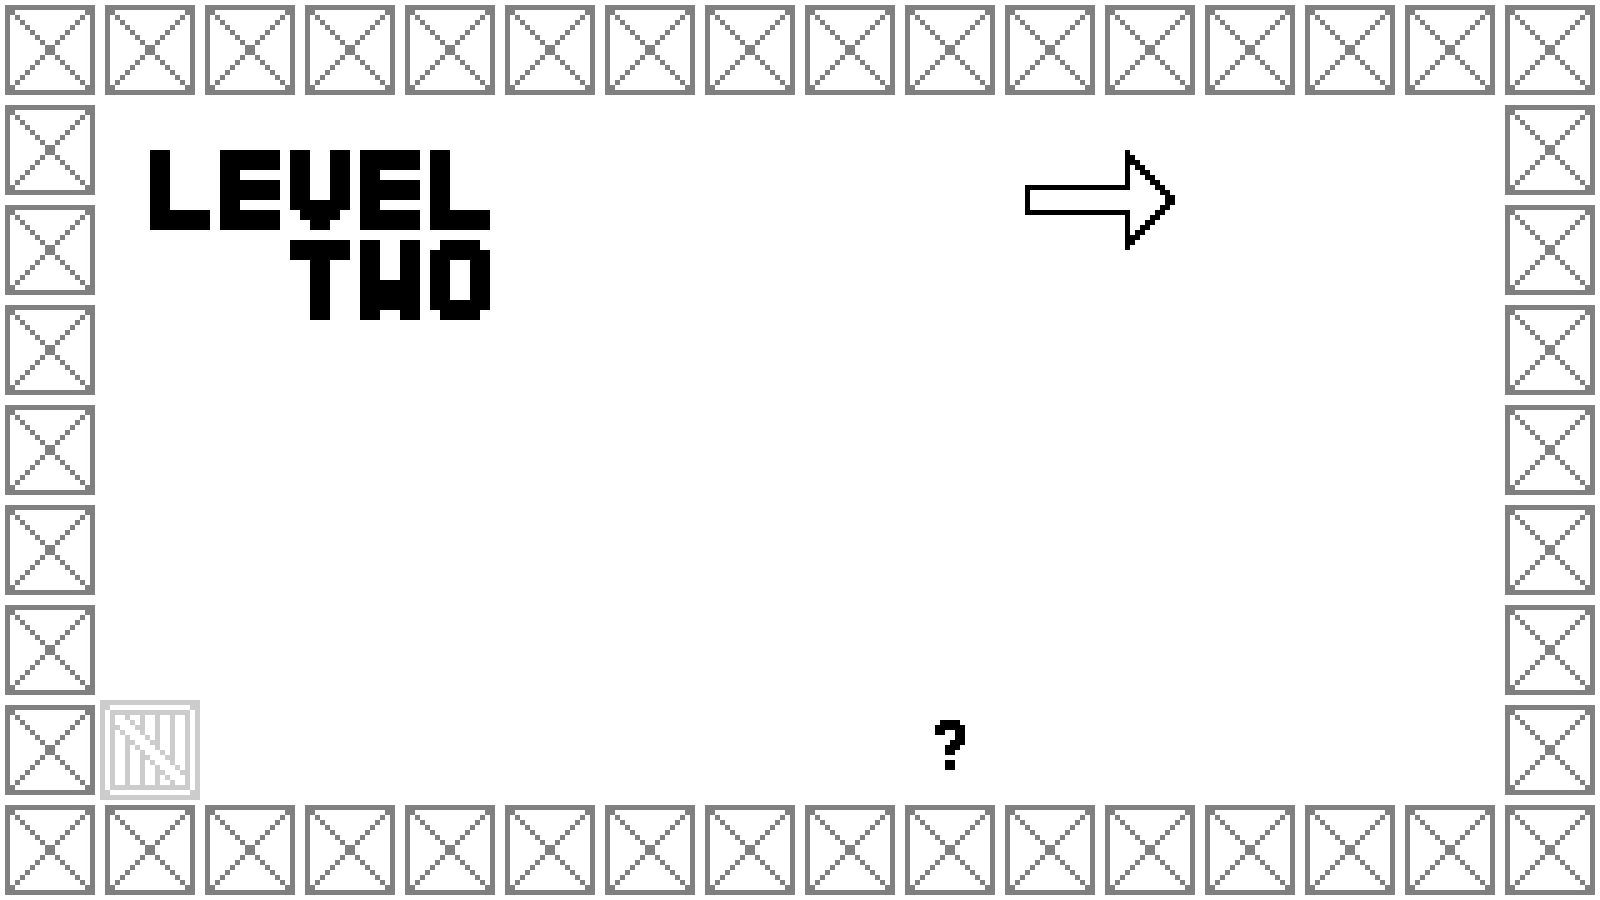
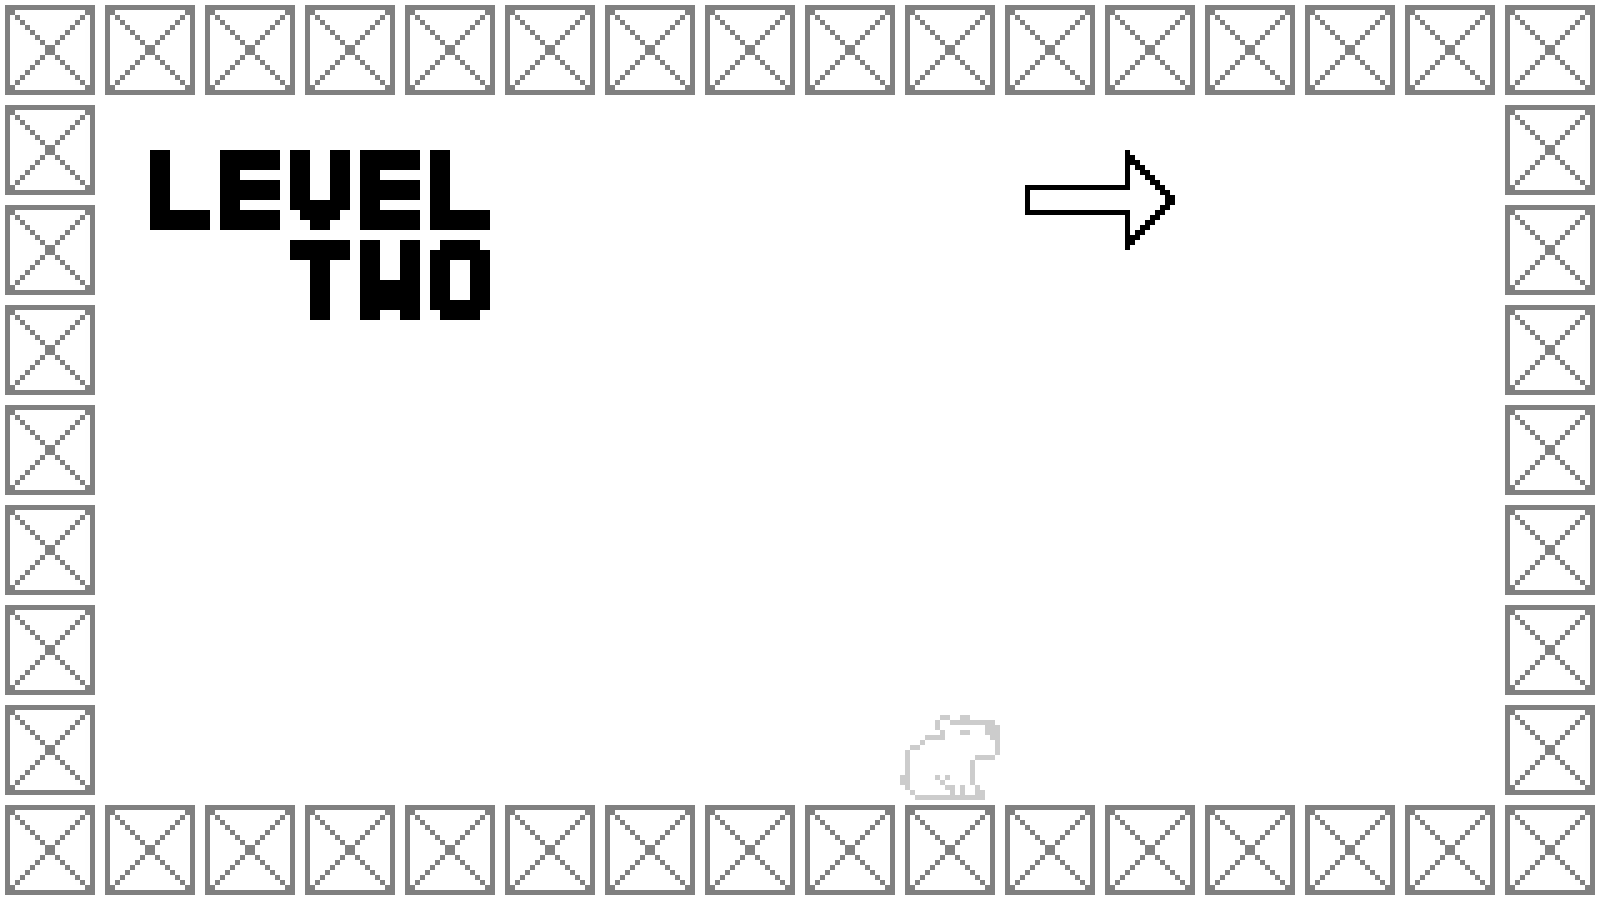
clarified level 3

Changed region(s): [[0.5625, 0.7778, 0.625, 0.9022], [0.0625, 0.7778, 0.125, 0.9022]]

diff --git a/src/levels/levels.min.js b/src/levels/levels.min.js
@@ -1,23 +1,61 @@
 const levels = [
-new Level(document.getElementById("level-1-background"), function(level, player, berry){
-}),
-new Level(document.getElementById("level-2-background"), function(level, player, berry){
+/*
+@name "Where Am I?"
+@background "level-1-background"
+
+*/
+new Level("Where Am I?", document.getElementById("level-1-background")),
+/*
+@name "Button Shenanigans"
+@background "level-2-background"
+
+platform 2 5 2 0.5
+box 2.5 4
+platform 6 -1 1 6.5
+
+control #fac
+button #fac 0 6
+door #fac 6 5.5 1 1.5
+
+control #4fc
+button #4fc 8 6
+door #4fc 9 2 1 -5
+platform 10 2 1 6
+*/
+new Level("Button Shenanigans", document.getElementById("level-2-background"), function(level, player, berry){
     level.addPlatformAt(4, 6.25, 2, 0.5);
-    level.addPlatformAt(7.5, 3.5, 1, 5);
-    level.addPlatformAt(11.5, 5.5, 1, 5);
+    level.addPlatformAt(7.5, 3.25, 1, 6.5);
+    level.addPlatformAt(11.5, 6, 1, 6);
     level.addBoxAt(4, 5.5);
     let doorManager0 = level.addDoorManager("#fac");
-    doorManager0.linkDoor(level.addDoorAt(7.5, 7, 1, 2))
+    doorManager0.linkDoor(level.addDoorAt(7.5, 7.25, 1, 1.5))
     doorManager0.linkButton(level.addButtonAt(1.5, 8))
     let doorManager1 = level.addDoorManager("#4fc");
     doorManager1.linkDoor(level.addDoorAt(10.5, 5.5, 1, -5))
     doorManager1.linkButton(level.addButtonAt(9.5, 8))
 }),
-new Level(document.getElementById("level-3-background"), function(level, player, berry){
+/*
+@name "A Ghostly Helper"
+@background "level-3-background"
+
+platform -1 2 9 0.5
+platform 2 5 3 0.5
+pumpkin 3 4
+
+platform 7 -1 1 7
+
+control #fac
+button #fac 4 6
+box 2 6
+door #fac 7 6 1 1
+
+platform 10 4 1 4
+*/
+new Level("A Ghostly Helper", document.getElementById("level-3-background"), function(level, player, berry){
+    level.addPlatformAt(4.5, 3.25, 9, 0.5);
     level.addPlatformAt(4.5, 6.25, 3, 0.5);
-    level.addPlatformAt(4.5, 4.25, 7, 0.5);
-    level.addPlatformAt(8.5, 4, 1, 6);
-    level.addPlatformAt(11.5, 6.5, 1, 3);
+    level.addPlatformAt(8.5, 3.5, 1, 7);
+    level.addPlatformAt(11.5, 7, 1, 4);
     level.addBoxAt(3.5, 7.5);
     let doorManager0 = level.addDoorManager("#fac");
     doorManager0.linkDoor(level.addDoorAt(8.5, 7.5, 1, 1))
@@ -25,29 +63,10 @@ new Level(document.getElementById("level-3-background"), function(level, player,
 }, function(level){
     level.addPumpkinAt(4.5, 5.4);
 }),
-new Level(document.getElementById("level-4-background"), function(level, player, berry){
-    level.addPlatformAt(4.5, 6.25, 3, 0.5);
-    level.addPlatformAt(8.5, 6.5, 1, 1);
-    level.addPlatformAt(10, 4.25, 4, 0.5);
-    level.addPlatformAt(11.5, 6.5, 1, 5);
-    level.addPlatformAt(11.5, 3.5, 1, 1);
-    level.addBoxAt(4.5, 5.5);
-    level.addBoxAt(4.5, 7.5);
-    level.addBoxAt(8.5, 1.5);
-    let doorManager0 = level.addDoorManager("#fac");
-    doorManager0.linkDoor(level.addDoorAt(8.5, 7.5, 1, 1))
-    doorManager0.linkButton(level.addButtonAt(1.5, 8))
-    doorManager0.linkButton(level.addButtonAt(5.5, 8))
-    let doorManager1 = level.addDoorManager("#4fc");
-    doorManager1.linkDoor(level.addDoorAt(8.5, 5.25, 1, 1.5))
-    doorManager1.linkDoor(level.addDoorAt(8.5, 3, 1, -2))
-    doorManager1.linkButton(level.addButtonAt(10.5, 8))
-    let doorManager2 = level.addDoorManager("#fd4");
-    doorManager2.linkDoor(level.addDoorAt(11.5, 2, 1, 2))
-    doorManager2.linkButton(level.addButtonAt(10.5, 4))
-}, function(level){
-})
 /*
+@name "A Scarlet Fish"
+@background "level-4-background"
+
 control #fac
 button #fac 0 6
 button #fac 4 6
@@ -68,4 +87,95 @@ box 3 4
 box 3 6
 box 7 0
 */
+new Level("A Scarlet Fish", document.getElementById("level-4-background"), function(level, player, berry){
+    level.addPlatformAt(4.5, 6.25, 3, 0.5);
+    level.addPlatformAt(8.5, 6.5, 1, 1);
+    level.addPlatformAt(10, 4.25, 4, 0.5);
+    level.addPlatformAt(11.5, 6.5, 1, 5);
+    level.addPlatformAt(11.5, 3.5, 1, 1);
+    level.addBoxAt(4.5, 5.5);
+    level.addBoxAt(4.5, 7.5);
+    level.addBoxAt(8.5, 1.5);
+    let doorManager0 = level.addDoorManager("#fac");
+    doorManager0.linkDoor(level.addDoorAt(8.5, 7.5, 1, 1))
+    doorManager0.linkButton(level.addButtonAt(1.5, 8))
+    doorManager0.linkButton(level.addButtonAt(5.5, 8))
+    let doorManager1 = level.addDoorManager("#4fc");
+    doorManager1.linkDoor(level.addDoorAt(8.5, 5.25, 1, 1.5))
+    doorManager1.linkDoor(level.addDoorAt(8.5, 3, 1, -2))
+    doorManager1.linkButton(level.addButtonAt(10.5, 8))
+    let doorManager2 = level.addDoorManager("#fd4");
+    doorManager2.linkDoor(level.addDoorAt(11.5, 2, 1, 2))
+    doorManager2.linkButton(level.addButtonAt(10.5, 4))
+}),
+/*
+@name "The Button Operator"
+@background "level-5-background"
+
+# Left block
+control #4fc
+control #fac
+control #fd4
+
+button #fd4 1 6
+button #fac 2 6
+button #4fc 3 6
+door #4fc 4 5 1 -2
+
+platform 0 5 4 0.5
+platform 5 5 1 2.5
+
+pumpkin 0 4
+box 5 4
+
+# Top block
+
+platform 9 -1 1 4
+
+box 10 0
+
+door #fac 10 1 1 -1
+door #4fc 10 2 1 -1
+
+platform 11 -1 1 4
+platform 11 2 4 1
+
+# Bottom block
+
+platform 8 5 2 .5
+
+button #fac 9 6
+
+door #fac 10 5 1 -2
+door #fd4 11 5 1 -2
+
+platform 11 4 4 1
+button #fd4 13 3
+*/
+new Level("The Button Operator", document.getElementById("level-5-background"), function(level, player, berry){
+    level.addPlatformAt(3, 6.25, 4, 0.5);
+    level.addPlatformAt(6.5, 7.25, 1, 2.5);
+    level.addPlatformAt(10.5, 2, 1, 4);
+    level.addPlatformAt(12.5, 2, 1, 4);
+    level.addPlatformAt(14, 3.5, 4, 1);
+    level.addPlatformAt(10, 6.25, 2, 0.5);
+    level.addPlatformAt(14, 5.5, 4, 1);
+    level.addBoxAt(6.5, 5.5);
+    level.addBoxAt(11.5, 1.5);
+    let doorManager0 = level.addDoorManager("#4fc");
+    doorManager0.linkDoor(level.addDoorAt(5.5, 7, 1, -2))
+    doorManager0.linkDoor(level.addDoorAt(11.5, 3.5, 1, -1))
+    doorManager0.linkButton(level.addButtonAt(4.5, 8))
+    let doorManager1 = level.addDoorManager("#fac");
+    doorManager1.linkDoor(level.addDoorAt(11.5, 2.5, 1, -1))
+    doorManager1.linkDoor(level.addDoorAt(11.5, 7, 1, -2))
+    doorManager1.linkButton(level.addButtonAt(3.5, 8))
+    doorManager1.linkButton(level.addButtonAt(10.5, 8))
+    let doorManager2 = level.addDoorManager("#fd4");
+    doorManager2.linkDoor(level.addDoorAt(12.5, 7, 1, -2))
+    doorManager2.linkButton(level.addButtonAt(2.5, 8))
+    doorManager2.linkButton(level.addButtonAt(14.5, 5))
+}, function(level){
+    level.addPumpkinAt(1.5, 5.4);
+})
 ]

diff --git a/puzzle-creator.html b/puzzle-creator.html
@@ -46,6 +46,7 @@
             }
 
             #code {
+                width: 800px;
                 flex: 1;
                 outline: 1px solid black;
                 margin-bottom: 0;
@@ -150,7 +151,10 @@
                 <pre id="code"></pre>
             </div>
             <!--suppress HtmlFormInputWithoutLabel -->
-            <textarea id="input">control #fac
+            <textarea id="input">@name "Test Level"
+@background "level-1-background"
+
+control #fac
 button #fac 0 6
 door #fac 6 5 1 2
 platform 2 5 2 0.5
@@ -177,6 +181,10 @@ pumpkin 2.5 2</textarea>
                 let controls = [];
                 /** @type {{x:number,y:number}[]} */
                 let pumpkins = [];
+
+                let level_name = null;
+                let level_background = null;
+
                 for (let line of value.split(/\s*\n\s*/g).map(j => j.trim())) {
                     let [command, ...params] = line.trim().split(/\s+/);
                     try {
@@ -206,6 +214,14 @@ pumpkin 2.5 2</textarea>
                                 let [x, y, w, h] = rest.map(i => +i);
                                 controls.find(({color: controlColor}) => controlColor === color).doors.push({x, y, w, h});
                             } break;
+                            case "@name" : {
+                                level_name = params.join(' ');
+                                break;
+                            }
+                            case "@background" : {
+                                level_background = params.join(' ');
+                                break;
+                            }
                         }
                     } catch (e) { }
                 }
@@ -269,9 +285,13 @@ pumpkin 2.5 2</textarea>
                     }
                 }
 
-                let all_code = `new Level(null, function(level, player, berry){\n${code}}, function(level){\n${p_code}})`;
+                let all_code = `new Level(${level_name ?? "Good Luck!"}, ${
+                    level_background ? `document.getElementById(${level_background})` : null
+                }${code === '' ? p_code === '' ? '' : ', null' : `, function(level, player, berry){\n${code}}`}${
+                    p_code === '' ? '' : `, function(level){\n${p_code}}`
+                })`;
                 let code_display = document.getElementById('code');
-                code_display.innerText = all_code;
+                code_display.innerText = `/*\n${value}\n*/\n` + all_code;
 
                 code_display.oncontextmenu = e => {
                     const range = document.createRange();

diff --git a/src/game.js b/src/game.js
@@ -1,11 +1,13 @@
 class Level {
     /**
+     * @param {string} name
      * @param {HTMLImageElement} background
-     * @param {(level: Level, player: GameObject, berry: GameObject)=>any} onRestart
+     * @param {(level: Level, player: GameObject, berry: GameObject)=>any} [onRestart]
      * @param {(level: Level)=>any} [onLoad]
      * @param {(level: Level)=>any} [onUpdate]
      */
-    constructor(background, onRestart, onLoad, onUpdate) {
+    constructor(name, background, onRestart, onLoad, onUpdate) {
+        this.name = name;
         this.background = background;
         this.engine = new GameEngine();
         this.recorders = [new ShadowRecorder(), new ShadowRecorder(), new ShadowRecorder()];
@@ -13,9 +15,6 @@ class Level {
         this.generate = onRestart ?? (() => {});
         this.onLoad = onLoad ?? (() => {});
         this.onUpdate = onUpdate ?? (() => {});
-
-        this.player = new PlayerObject();
-        this.berry = new BerryObject(0, 0);
 
         this.reset();
     }
@@ -34,14 +33,16 @@ class Level {
         this.onLoad(this);
         this.persistentObjects = this.engine.gameObjects;
         this.isWon = false;
+        this.player = new PlayerObject();
+        this.berry = new BerryObject(0, 0);
         this.restart();
     }
 
     regenerateLevel(){
         const {engine} = this;
         engine.remove(...engine.gameObjects.filter(i => !this.persistentObjects.includes(i)));
-        this.player.position = new Vec2(1.5, 7.5);
-        this.berry.position = new Vec2(14.5, 7.5);
+        this.player.position = new Vec2(1.5, 7.65);
+        this.berry.position = new Vec2(14, 7);
         engine.add(new PlatformObject(8, 0.5, 16, 1));
         engine.add(new PlatformObject(8, 8.5, 16, 1));
         engine.add(new PlatformObject(0.5, 4.5, 1, 16));
@@ -153,6 +154,9 @@ class Level {
 
         if(events.keysDown[' ']){
             this.player.tryJump(this.engine);
+        }
+        if(events.keysDown['r']) {
+            this.reset();
         }
 
         for(let obj of this.engine.gameObjects.filter(i => this.player.isCollidingWith(i))) {

diff --git a/preview-player.html b/preview-player.html
@@ -23,8 +23,6 @@
             <img src="res/image/box.png" alt="" id="box-img">
             <img src="res/image/pump.png" alt="" id="pump-img">
             <img src="res/image/berry.png" alt="" id="berry-img">
-            <img src="res/image/level/1.png" alt="" id="level-1-background">
-            <img src="res/image/level/2.png" alt="" id="level-2-background">
         </div>
         <div id="game">
             <canvas id="game-canvas"></canvas>

diff --git a/index.html b/index.html
@@ -27,6 +27,7 @@
             <img src="res/image/level/2.png" alt="" id="level-2-background">
             <img src="res/image/level/3.png" alt="" id="level-3-background">
             <img src="res/image/level/4.png" alt="" id="level-4-background">
+            <img src="res/image/level/5.png" alt="" id="level-5-background">
         </div>
         <div id="game">
             <canvas id="game-canvas"></canvas>
